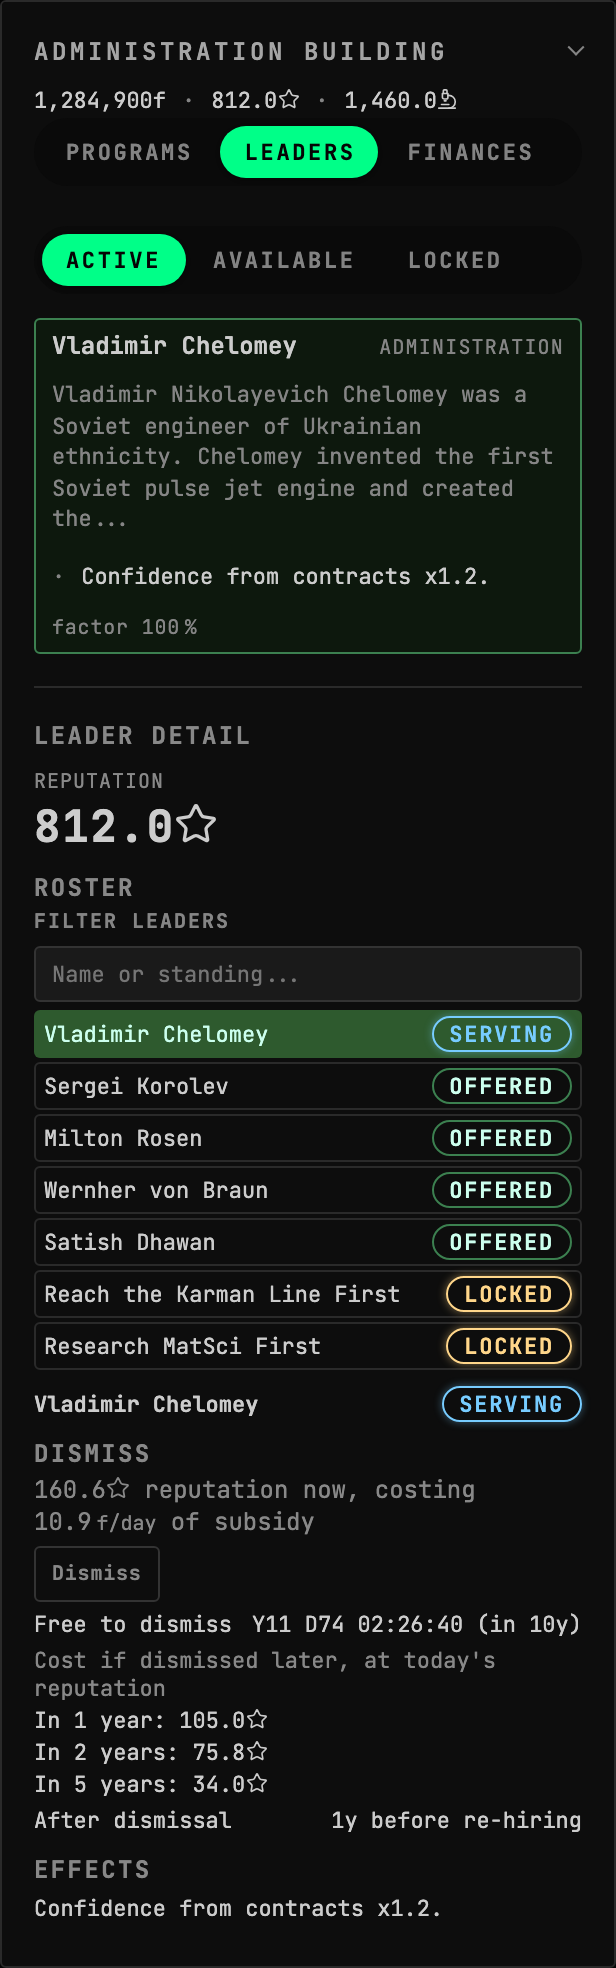
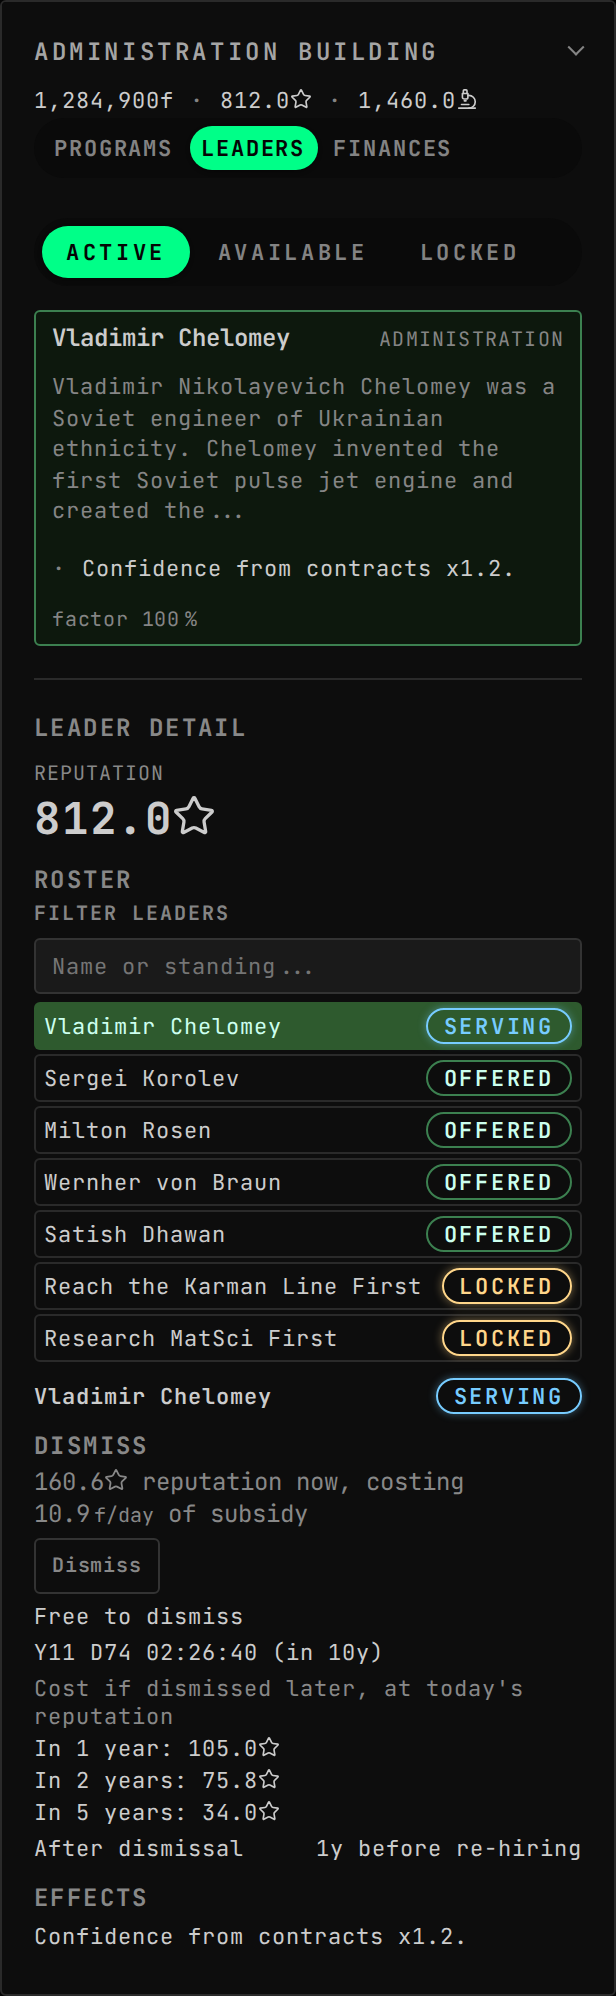
fix(rp1): a serving leader's dismissal options show their full names on Linux too

diff --git a/uplinks/rp1/client/src/LeaderDetail/index.tsx b/uplinks/rp1/client/src/LeaderDetail/index.tsx
@@ -146,7 +146,7 @@ const CATALOGUE_SCROLL = { maxHeight: "16rem", overflowY: "auto" } as const;
  * cut to an ellipsis beside a long date. This keeps the whole name and lets the
  * value drop to the next line instead.
  */
-const WHOLE_NAME_STYLE: CSSProperties = { minWidth: "min(max-content, 100%)" };
+const WHOLE_NAME_STYLE: CSSProperties = { minWidth: "max-content" };
 
 const LIST_STYLE = { listStyle: "none", margin: 0, padding: 0 } as const;
 

diff --git a/uplinks/rp1/client/src/LeaderDetail/index.test.tsx b/uplinks/rp1/client/src/LeaderDetail/index.test.tsx
@@ -288,7 +288,7 @@ describe("LeaderDetail", () => {
 
     expect(screen.getByText("Free to dismiss")).toHaveAttribute(
       "style",
-      "min-width: min(max-content, 100%);",
+      "min-width: max-content;",
     );
   });
 
